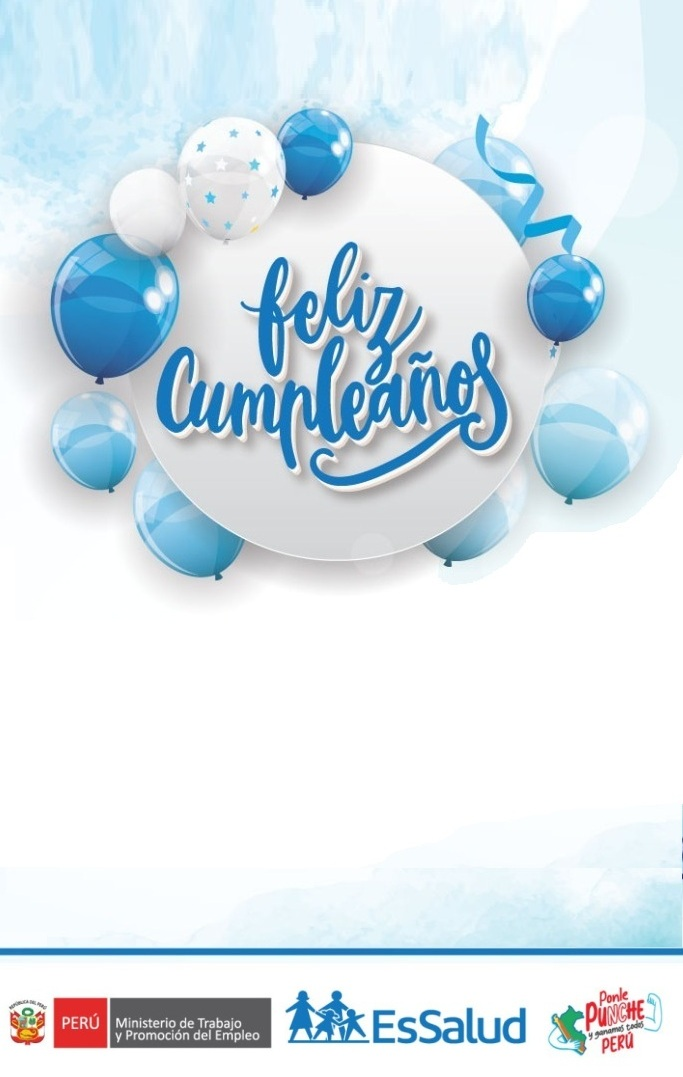
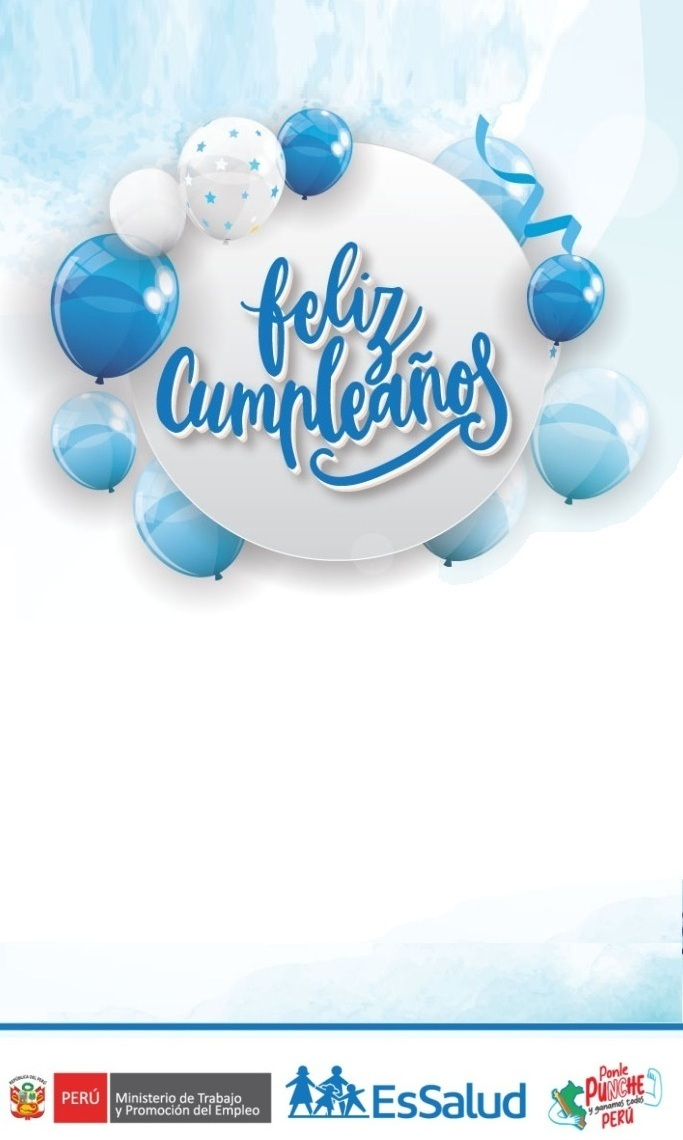
ajuste en el texto

Changed region(s): [[0.0615, 0.0919, 0.9839, 0.5515], [0.0, 0.7967, 1.0, 1.0]]

diff --git a/src/app/shared/onomastico-dialog/onomastico-dialog.component.scss b/src/app/shared/onomastico-dialog/onomastico-dialog.component.scss
@@ -16,7 +16,7 @@
   background: white;
   padding: 20px;
   border-radius: 8px;
-  
+
   box-shadow: 0px 4px 10px rgba(0, 0, 0, 0.3);
   overflow: hidden;
 }
@@ -28,35 +28,29 @@
 
 .popup-text {
   position: absolute;
-  bottom: 110px;
-  left: 30px;
-  text-align: left;
-  // font-family: 'Georgia', serif;
+  top: 70%;
+  left: 50%;
+  transform: translate(-50%, -50%);
+  text-align: center;
+
   font-family: 'Arial', sans-serif;
   font-size: 14px;
   color: #333;
-  line-height: 1.6;
-  animation: fadeIn 10s ease-in-out;
+  line-height: 1.6; 
+  animation: fadeInOut 10s ease-in;
 }
 
 .popup-text p {
   margin: 0;
 }
 
-// Animación de desvanecimiento 
-@keyframes fadeIn {
-  from {
-    opacity: 0;
-    transform: translateY(20px);
-  }
-
-  to {
-    opacity: 1;
-    transform: translateY(0);
-  }
+@keyframes fadeInOut {
+  0% { opacity: 0; }
+  50% { opacity: 1; }
+  100% { opacity: 1; }
 }
 
-/* Botón flotante de cerrar */
+/* Botón flotante cerrar */
 .close-button {
   position: absolute;
   top: 10px;

diff --git a/src/app/shared/onomastico-dialog/onomastico-dialog.component.html b/src/app/shared/onomastico-dialog/onomastico-dialog.component.html
@@ -14,8 +14,8 @@
             <div style="font-style: italic; color: #0056b3;">
                 <p><strong>¡Gracias por formar parte de EsSalud!</strong></p>
             </div>
-            <div style="margin-top: 10px; text-align: center; font-style: italic;">
-                <p>"Gerencia Central de Gestion de las Personas"</p>
+            <div style="margin-top: 10px; font-style: italic;">
+                <p>Gerencia Central de Gestion de las Personas</p>
             </div>
         </div>
     </div>

diff --git a/src/environments/environment.ts b/src/environments/environment.ts
@@ -1,8 +1,8 @@
 export const environment = {
   production: false,
   moduloGr: true,
-  apiUrl: 'http://localhost:80/api',
-  // apiUrl: 'https://appsqa.essalud.gob.pe/marcaciones-service/api',
+  // apiUrl: 'http://localhost:80/api',
+  apiUrl: 'https://appsqa.essalud.gob.pe/marcaciones-service/api',
   environmentName: 'PÁGINA EN DESARROLLO (LOCAL)',
   sentry: {
     dsn: 'https://2d94879736dbd8e71ef6b39f4bc6f532@o4506984073986048.ingest.us.sentry.io/4507013372510208',
